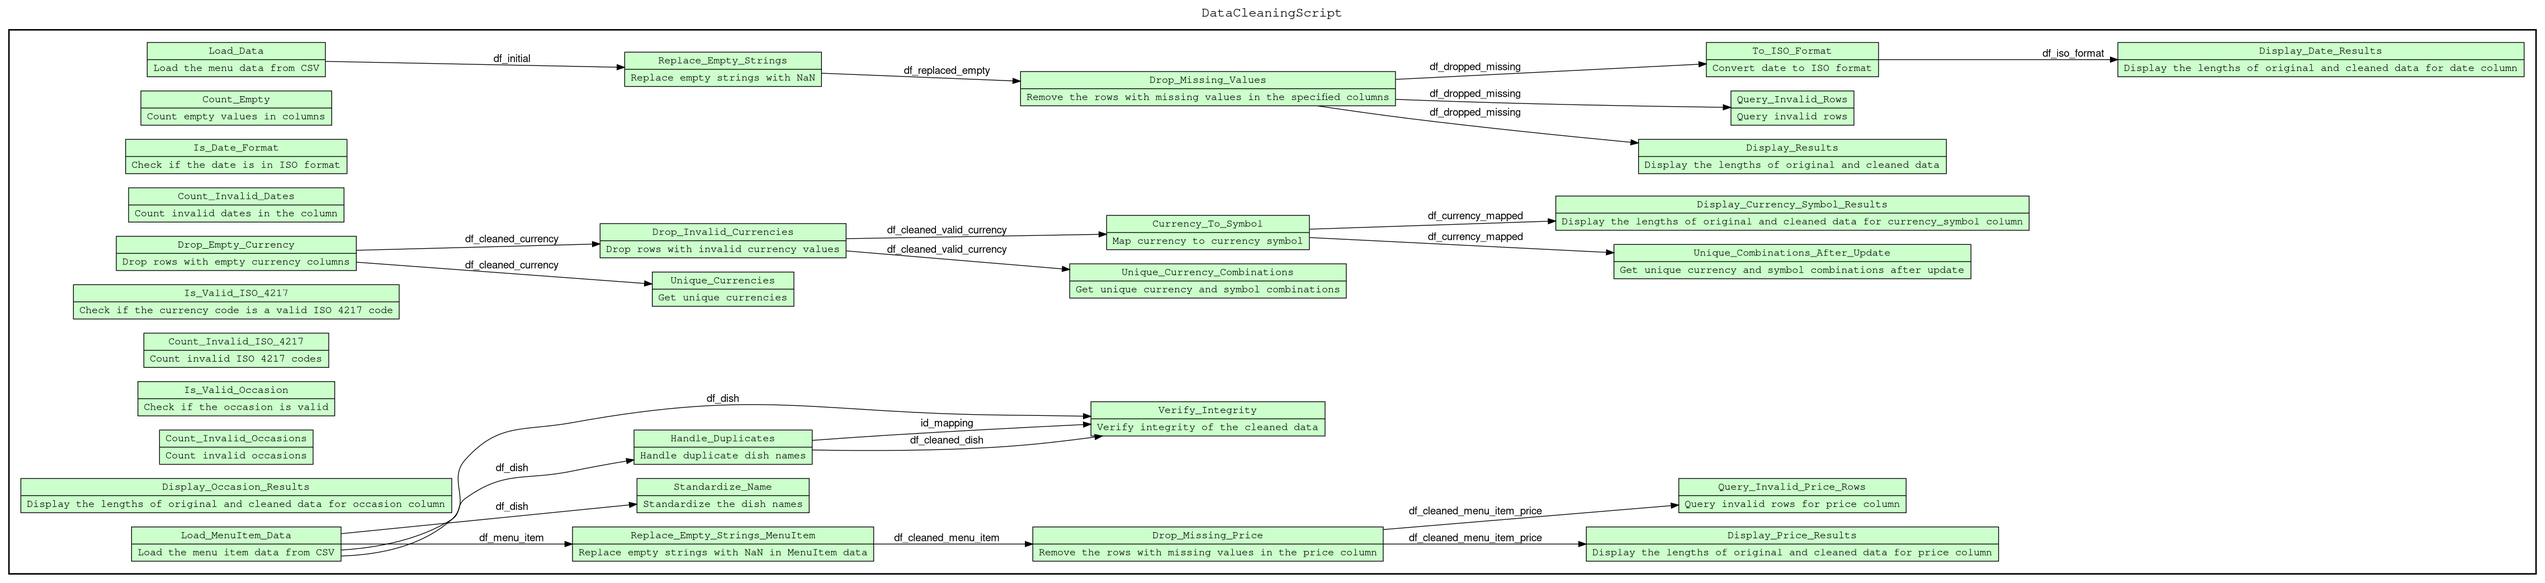
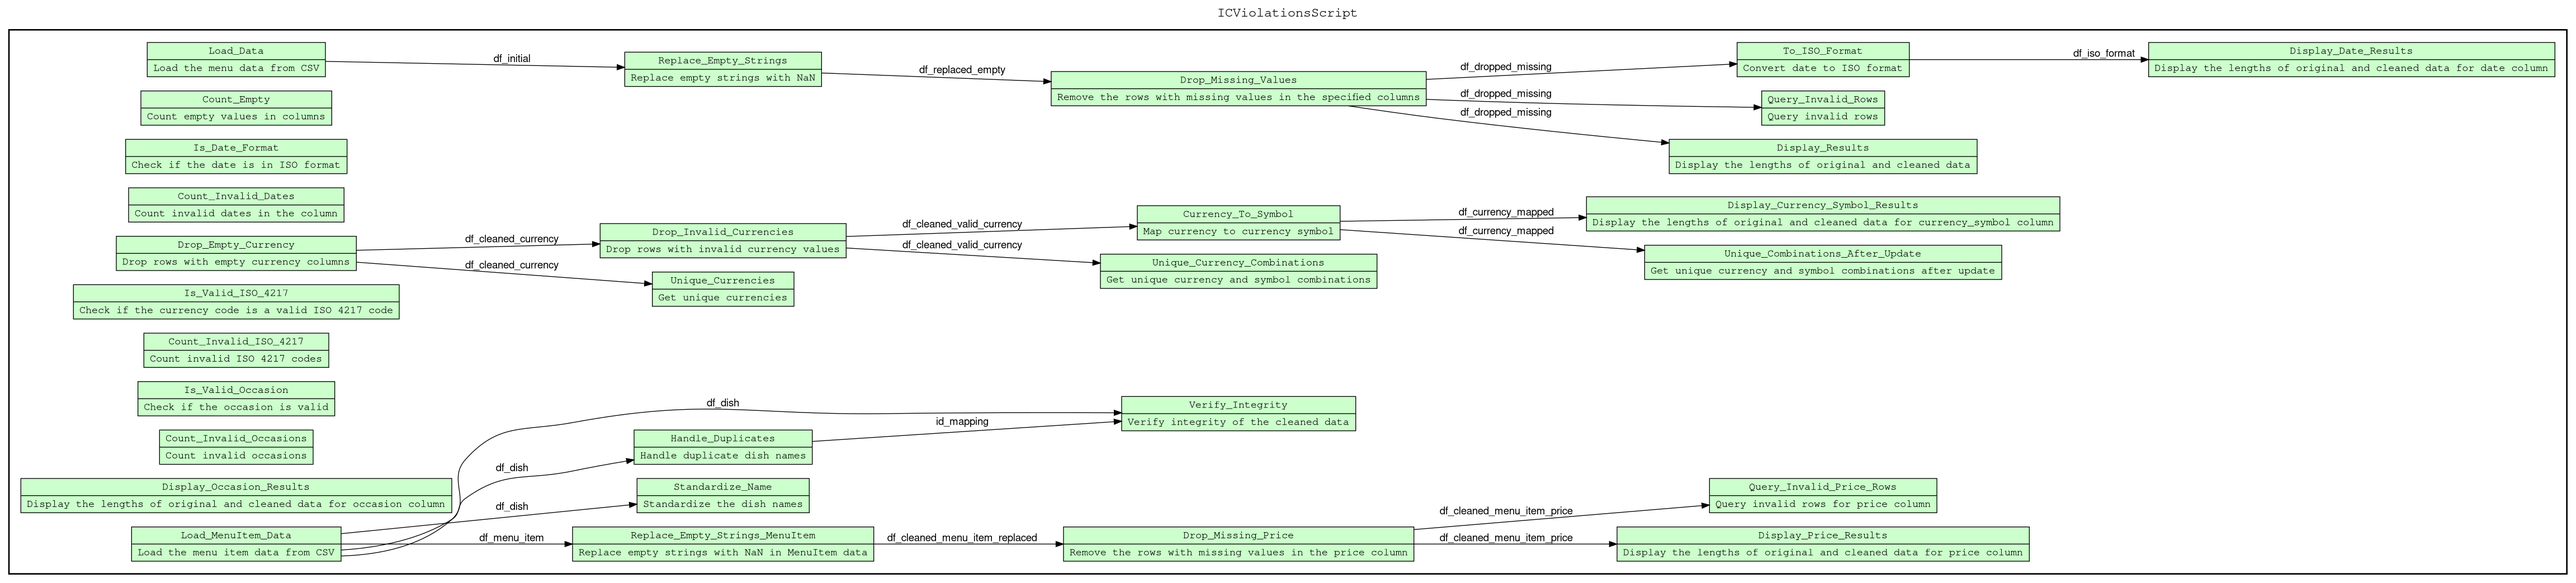
Fix titles

diff --git a/AnnotatedICViolations.py b/AnnotatedICViolations.py
@@ -1,4 +1,4 @@
-# @begin DataCleaningScript
+# @begin ICViolationsScript
 
 import pandas as pd
 import numpy as np
@@ -284,36 +284,36 @@ for column in original_lengths:
 # @in menu_item_csv @uri file:./data/MenuItem.csv
 # @in dish_csv @uri file:./data/Dish.csv
 # @out df_menu_item @out df_dish
-df = pd.read_csv("./data/MenuItem.csv")
-dish_df = pd.read_csv("./data/Dish.csv")
+df_menu_item = pd.read_csv("./data/MenuItem.csv")
+df_dish = pd.read_csv("./data/Dish.csv")
 # @end Load_MenuItem_Data
 
 # Create a copy of the original DataFrame
-df_original = df.copy()
+df_original_menu_item = df_menu_item.copy()
 
 # Create a copy to be used for cleaning
-df_cleaned = df.copy()
+df_cleaned_menu_item = df_menu_item.copy()
 
 # @begin Replace_Empty_Strings_MenuItem @desc Replace empty strings with NaN in MenuItem data
 # @in df_menu_item
-# @out df_cleaned_menu_item
-df_cleaned.replace("", pd.NA, inplace=True)
+# @out df_cleaned_menu_item_replaced
+df_cleaned_menu_item.replace("", pd.NA, inplace=True)
 # @end Replace_Empty_Strings_MenuItem
 
 # @begin Drop_Missing_Price @desc Remove the rows with missing values in the price column
-# @in df_cleaned_menu_item
+# @in df_cleaned_menu_item_replaced
 # @out df_cleaned_menu_item_price
-df_cleaned = df_cleaned.dropna(subset=["price"])
+df_cleaned_menu_item = df_cleaned_menu_item.dropna(subset=["price"])
 # @end Drop_Missing_Price
 
 # @begin Display_Price_Results @desc Display the lengths of original and cleaned data for price column
-# @in df_original @in df_cleaned_menu_item_price
+# @in df_original_menu_item @in df_cleaned_menu_item_price
 original_lengths = {
-    "price": count_empty(df_original, "price")
+    "price": count_empty(df_original_menu_item, "price")
 }
 
 cleaned_lengths = {
-    "price": count_empty(df_cleaned, "price")
+    "price": count_empty(df_cleaned_menu_item, "price")
 }
 
 print(f"{'Column':<10} | {'Original Violations':<15} | {'Cleaned Violations':<15}")
@@ -325,7 +325,7 @@ for column in original_lengths:
 # @begin Query_Invalid_Price_Rows @desc Query invalid rows for price column
 # @in df_cleaned_menu_item_price
 # @out invalid_price_rows
-invalid_rows = df_cleaned.query("price == ''")
+invalid_rows = df_cleaned_menu_item.query("price == ''")
 print("\nQuery Result:", invalid_rows)
 # @end Query_Invalid_Price_Rows
 
@@ -337,13 +337,13 @@ def standardize_name(name):
         return name
     return ' '.join(word.capitalize() for word in name.split())
 
-dish_df['name'] = dish_df['name'].apply(standardize_name)
+df_dish['name'] = df_dish['name'].apply(standardize_name)
 # @end Standardize_Name
 
 # @begin Handle_Duplicates @desc Handle duplicate dish names
 # @in df_dish
-# @out id_mapping @out df_cleaned_dish
-duplicates = dish_df[dish_df.duplicated(subset='name', keep=False)]
+# @out id_mapping @out df_cleaned_menu_item_dish
+duplicates = df_dish[df_dish.duplicated(subset='name', keep=False)]
 
 duplicate_groups = duplicates.groupby('name')['id'].apply(list).reset_index()
 
@@ -355,11 +355,11 @@ for _, row in duplicate_groups.iterrows():
     for duplicate_id in ids[1:]:
         id_mapping[duplicate_id] = first_id
 
-df_cleaned['dish_id'] = df_cleaned['dish_id'].replace(id_mapping)
+df_cleaned_menu_item['dish_id'] = df_cleaned_menu_item['dish_id'].replace(id_mapping)
 # @end Handle_Duplicates
 
 # @begin Verify_Integrity @desc Verify integrity of the cleaned data
-# @in df_cleaned_dish @in df_dish @in id_mapping
+# @in df_cleaned_menu_item @in df_dish @in id_mapping
 # @out violations
 def verify_integrity(df_cleaned, dish_df, id_mapping):
     id_to_name = dish_df.set_index('id')['name'].to_dict()
@@ -382,11 +382,11 @@ def verify_integrity(df_cleaned, dish_df, id_mapping):
     return violations
 
 original_lengths = {
-    "bad mappings": verify_integrity(df_original, dish_df, id_mapping)
+    "bad mappings": verify_integrity(df_original_menu_item, df_dish, id_mapping)
 }
 
 cleaned_lengths = {
-    "bad mappings": verify_integrity(df_cleaned, dish_df, id_mapping)
+    "bad mappings": verify_integrity(df_cleaned_menu_item, df_dish, id_mapping)
 }
 
 print(f"{'Column':<10} | {'Original Violations':<15} | {'Cleaned Violations':<15}")
@@ -395,4 +395,4 @@ for column in original_lengths:
     print(f"{column:<10} | {original_lengths[column]:<15} | {cleaned_lengths[column]:<15}")
 # @end Verify_Integrity
 
-# @end DataCleaningScript
+# @end ICViolationsScript

diff --git a/AnnotatedDataCleaningChanges.py b/AnnotatedDataCleaningChanges.py
@@ -1,4 +1,4 @@
-# @begin DataCleaningScript
+# @begin DataCleaningChangesScript
 
 import pandas as pd
 import numpy as np
@@ -215,4 +215,4 @@ print("-" * 35)
 print(f"{'dish_id':<20} | {diff_count_a:<15}")
 # @end Compare_Columns_DishID
 
-# @end DataCleaningScript
+# @end DataCleaningChangesScript
